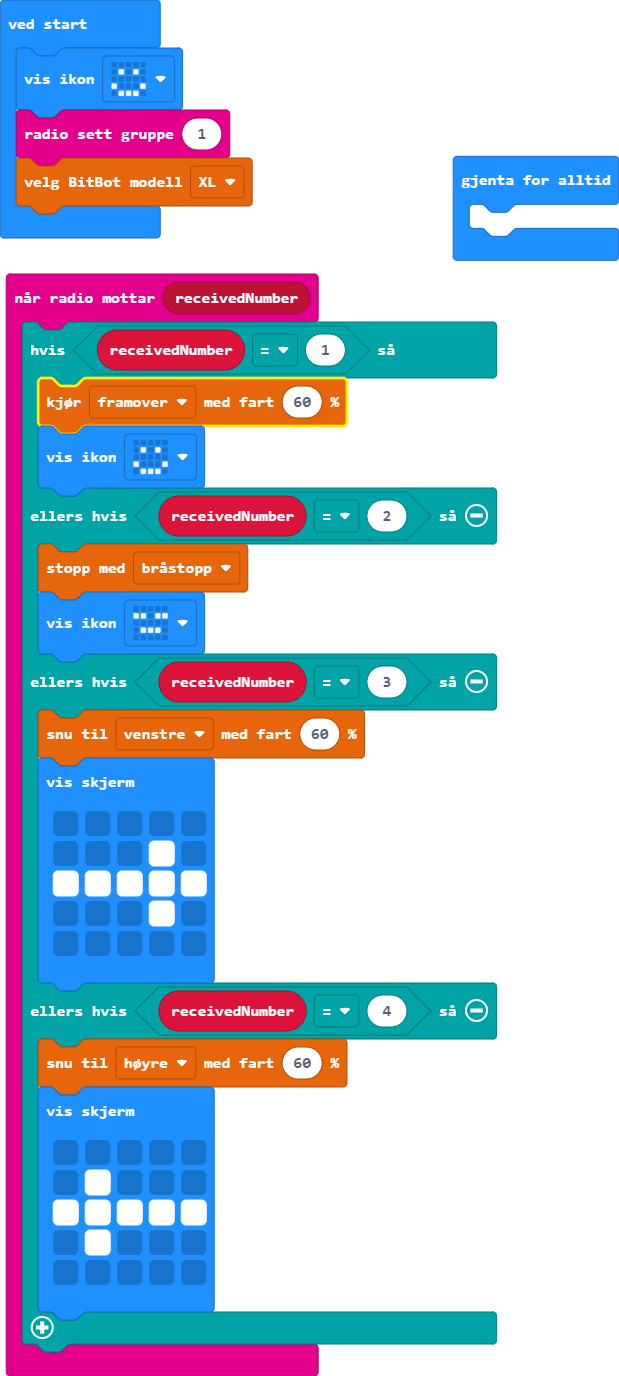
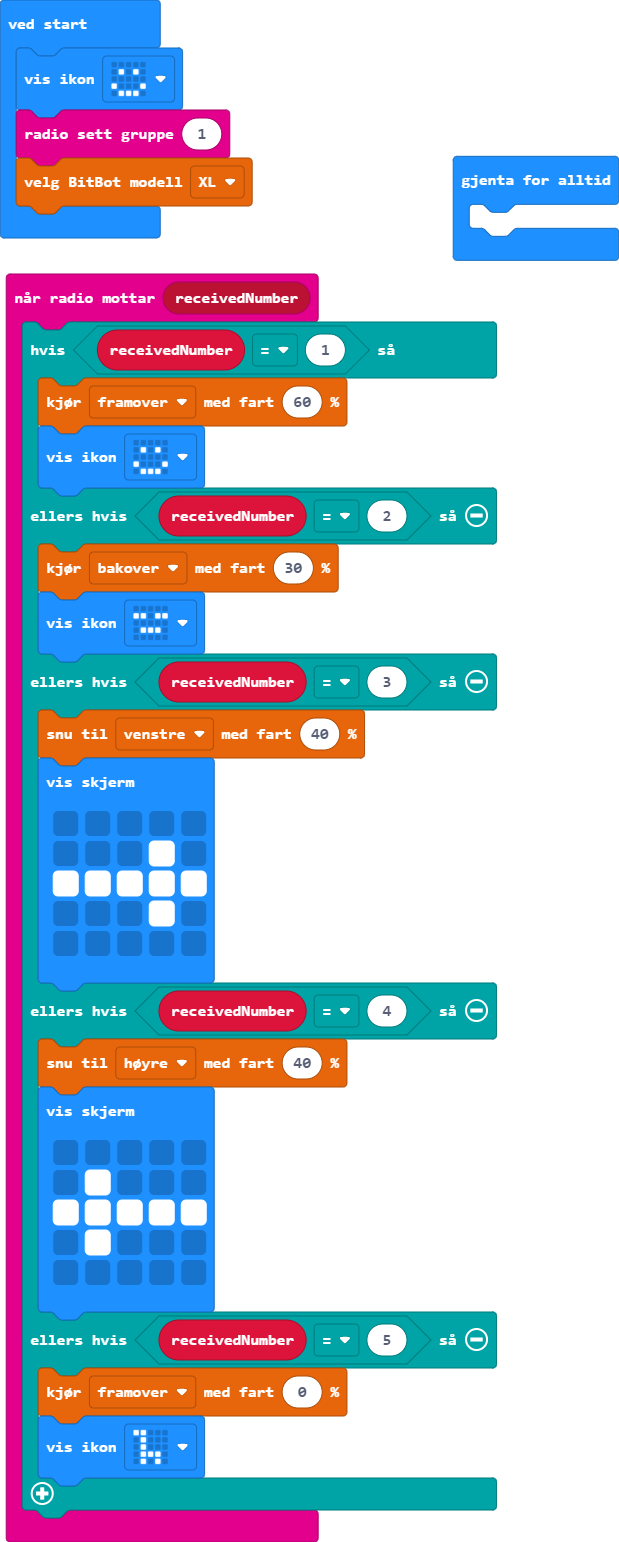
Oppdater main.blocks, main.ts

diff --git a/main.ts b/main.ts
@@ -3,10 +3,10 @@ radio.onReceivedNumber(function (receivedNumber) {
         bitbot.go(BBDirection.Forward, 60)
         basic.showIcon(IconNames.Happy)
     } else if (receivedNumber == 2) {
-        bitbot.stop(BBStopMode.Coast)
+        bitbot.go(BBDirection.Reverse, 30)
         basic.showIcon(IconNames.Asleep)
     } else if (receivedNumber == 3) {
-        bitbot.rotate(BBRobotDirection.Left, 60)
+        bitbot.rotate(BBRobotDirection.Left, 40)
         basic.showLeds(`
             . . . . .
             . . . # .
@@ -15,7 +15,7 @@ radio.onReceivedNumber(function (receivedNumber) {
             . . . . .
             `)
     } else if (receivedNumber == 4) {
-        bitbot.rotate(BBRobotDirection.Right, 60)
+        bitbot.rotate(BBRobotDirection.Right, 40)
         basic.showLeds(`
             . . . . .
             . # . . .
@@ -23,6 +23,9 @@ radio.onReceivedNumber(function (receivedNumber) {
             . # . . .
             . . . . .
             `)
+    } else if (receivedNumber == 5) {
+        bitbot.go(BBDirection.Forward, 0)
+        basic.showIcon(IconNames.Giraffe)
     }
 })
 basic.showIcon(IconNames.Happy)
